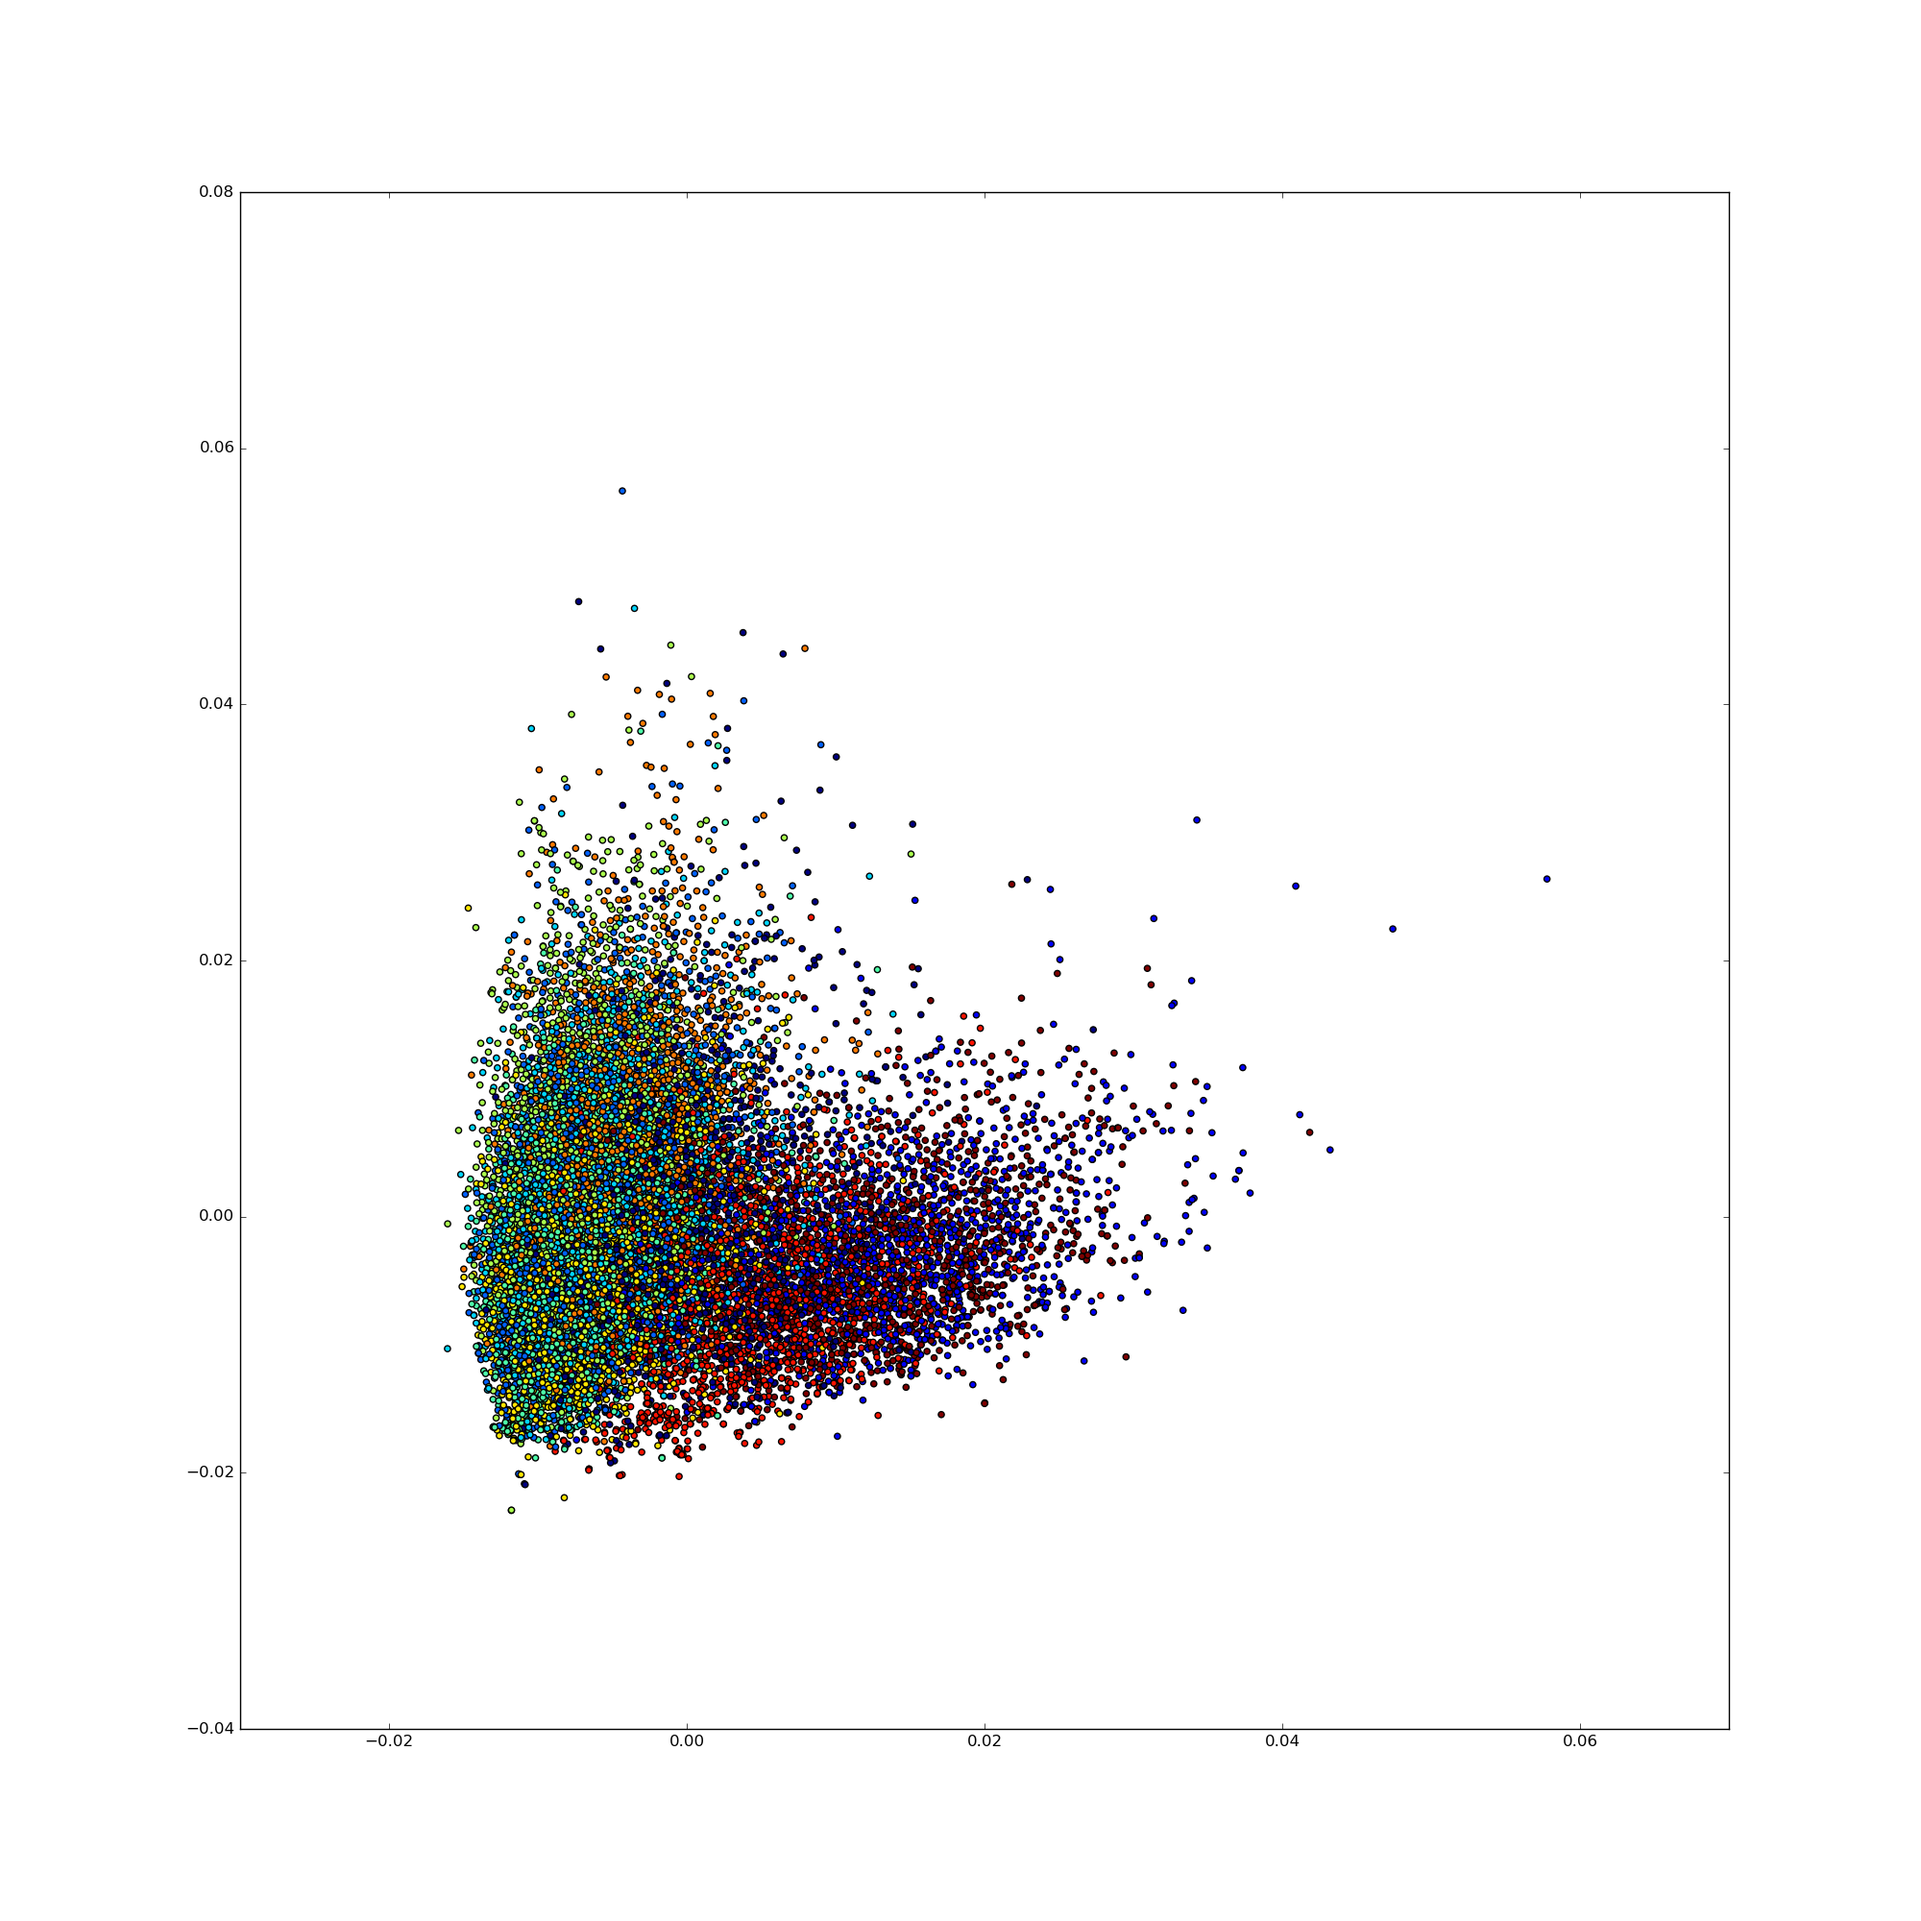
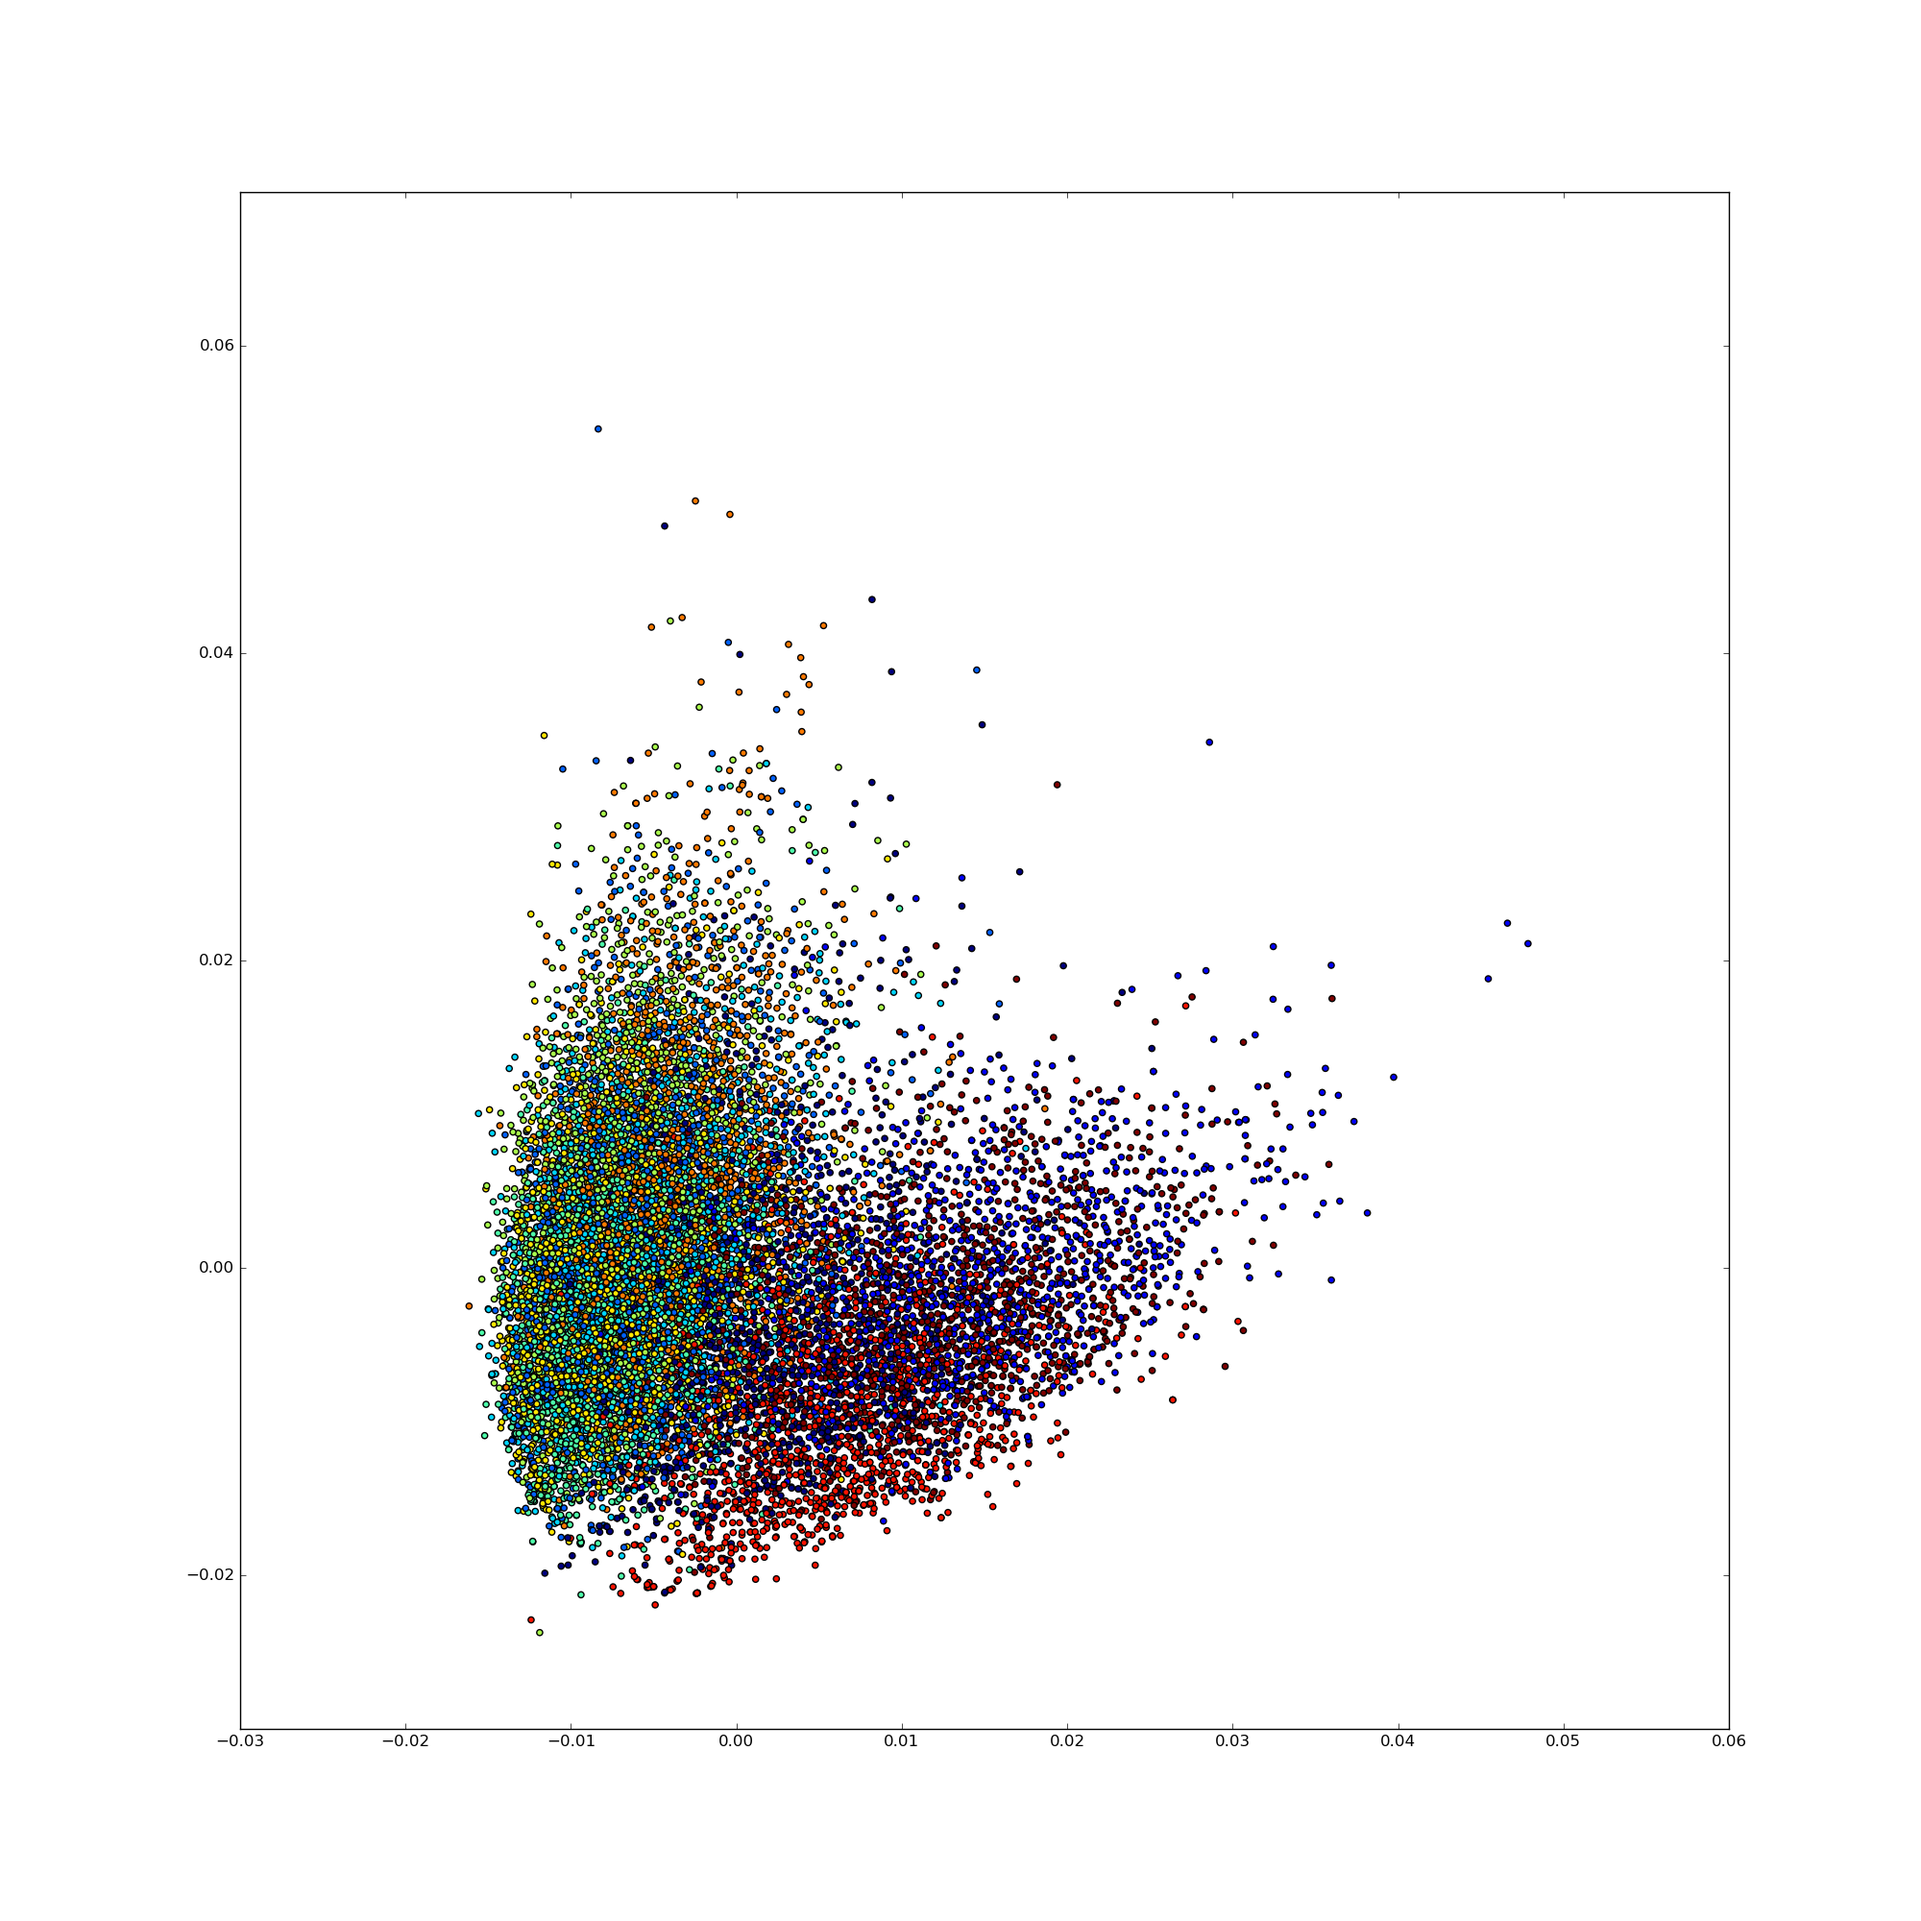
updated feature extract

Changed region(s): [[0.217, 0.341, 0.682, 0.837]]

diff --git a/practical_3/train_model.py b/practical_3/train_model.py
@@ -221,8 +221,8 @@ def feature_extraction():
     
     	tsne = manifold.TSNE(n_components=2 , init='pca', random_state=0)
     	fc2_tsne = tsne.fit_transform(np.squeeze(fc2_out))
-	#fc1_tsne = tsne.fit_transform(np.squeeze(fc1_out))
-	#flatten_tsne = tsne.fit_transform(np.squeeze(flatten))
+	fc1_tsne = tsne.fit_transform(np.squeeze(fc1_out))
+	flatten_tsne = tsne.fit_transform(np.squeeze(flatten))
     	
 	labels = np.argmax(y_test, axis=1)
 	
@@ -233,21 +233,24 @@ def feature_extraction():
         plt.scatter(x, y, c=labels)
     	plt.savefig('fc2_tsne_norm.png')
 
-	#plt.figure(figsize=(20, 20))
+	plt.figure(figsize=(20, 20))
 
-        #x = fc1_tsne[:,0]/np.linalg.norm(fc1_tsne[:,0])
-        #y = fc1_tsne[:,1]/np.linalg.norm(fc1_tsne[:,1])
-        #plt.scatter(x, y, c=labels)
-        #plt.savefig('fc3_tsne_norm.png')
+        x = fc1_tsne[:,0]/np.linalg.norm(fc1_tsne[:,0])
+        y = fc1_tsne[:,1]/np.linalg.norm(fc1_tsne[:,1])
+        plt.scatter(x, y, c=labels)
+        plt.savefig('fc3_tsne_norm.png')
 	
-	#plt.figure(figsize=(20, 20))  #in inches
+	plt.figure(figsize=(20, 20))  #in inches
 
-        #x = flatten_tsne[:,0]/np.linalg.norm(flatten_tsne[:,0])
-        #y = flatten_tsne[:,1]/np.linalg.norm(flatten_tsne[:,1])
-        #plt.scatter(x, y, c=labels)
-        #plt.savefig('flatten_tsne_norm.png')
+        x = flatten_tsne[:,0]/np.linalg.norm(flatten_tsne[:,0])
+        y = flatten_tsne[:,1]/np.linalg.norm(flatten_tsne[:,1])
+        plt.scatter(x, y, c=labels)
+        plt.savefig('flatten_tsne_norm.png')
 
-	_classify(fc2_tsne, labels)
+	fc2_tsne.dump('fc2_tsne')
+	fc1_tsne.dump('fc1_tsne')
+	flatten_tsne.dump('flatten_tsne')
+	#_classify(fc2_tsne, labels)
 	#_classify(fc3_tsne, labels)
 	#_classify(flatten_tsne, labels)
     ########################
@@ -262,7 +265,7 @@ def _classify(tsne, labels):
     
         classifier.fit(tsne, Y)
     
-        print('for class: %i', i, 'score: %f', classifier.score(tsne, labels))  
+        print('for class: ', i, 'score: ', classifier.score(tsne, labels))  
 
 def initialize_folders():
     """

diff --git a/practical_3/convnet.py b/practical_3/convnet.py
@@ -95,8 +95,8 @@ class ConvNet(object):
                 tf.histogram_summary('weights2', W)
                 b = tf.Variable(tf.zeros([192]))
                 tf.histogram_summary('biasses2',  b)
-                h = tf.nn.relu(tf.matmul(h, W) + b, name='h2')	
-                self.fc2_out = h
+                h2 = tf.nn.relu(tf.matmul(h, W) + b, name='h2')	
+                self.fc2_out = h2
                 
             with tf.name_scope('fc3') as scope:
                 W = tf.get_variable('final_w',
@@ -106,7 +106,7 @@ class ConvNet(object):
                 tf.histogram_summary('final_weights', W)
                 b = tf.Variable(tf.zeros([10]))
                 tf.histogram_summary('final_biasses',  b)
-                logits = tf.matmul(h, W) + b
+                logits = tf.matmul(h2, W) + b
             ########################
             # END OF YOUR CODE    #
             ########################
